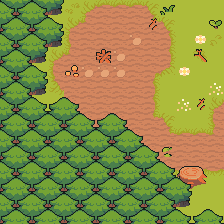
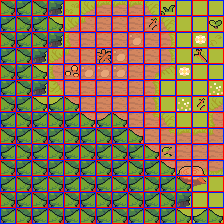
Operational case detection system

Changed region(s): [[0.0, 0.0, 1.0, 1.0]]

diff --git a/scripts/game.js b/scripts/game.js
@@ -2,6 +2,9 @@ let imageLoader = new ImageLoader()
 let gameReady = false
 let listSprites = []
 
+let mouseX
+let mouseY
+
 function load(){
     // retrieves the activated and released keys
     document.addEventListener("keydown", keyDown, false)
@@ -28,8 +31,8 @@ function startGame(){
 
     let spriteSheetBlueSamurai = imageLoader.getImage("/asset/graphics/actor/characters/blue_samurai/sprite_sheet.png")
     hero = new Sprite(spriteSheetBlueSamurai)
-    hero.x = 16*24
-    hero.y = 16*24
+    hero.x = 16*20
+    hero.y = 16*20
     setHero()
     listSprites.push(hero)
 
@@ -49,6 +52,11 @@ function update(dt){
 
     if(!gameReady){return}
     
+    
+
+    let id = getTileAt(hero.x, hero.y)
+    console.log(id)
+
     listSprites.forEach(sprite => {
         sprite.update(dt)
     })
@@ -57,19 +65,11 @@ function update(dt){
     hero.move()
 }
 
-function cooldowns(pCooldownsMax){
-    // time in seconds 
-    let lastTime = Date.now()/1000
-    
-    while(Date.now()/1000 < lastTime + pCooldownsMax){}
-
-    return true
-}
-
 function draw(pCtx){
 
     if(!gameReady){return}
-
+    
+    
     listMap.forEach(sprite => {
         sprite.draw(pCtx)
     })

diff --git a/scripts/collider.js b/scripts/collider.js
@@ -1,3 +1,6 @@
+const tileSize = 16
+const tileScale = 4
+
 const map = [
     [1,1,1,1,0,0,0,0,0,0,0,0,0,0],
     [1,1,1,1,0,0,0,0,0,0,0,0,0,0],
@@ -16,6 +19,14 @@ const map = [
 ]
 
 function getTileAt(pX, pY){
-    let column = Math.floor(pX/16) + 1
-    let line = Math.floor(pY/16) + 1
+
+    let column = Math.floor(pX/(tileSize*tileScale)) + 1
+    let line = Math.floor(pY/(tileSize*tileScale)) + 1
+
+    if((column >= 0) && (column <= map[0].length) && (line >= 0) && (line <= map.length)){
+        let idCase = map[line][column]
+        return idCase
+    }
+    
+    return "ERROR : outside the map !"
 }

diff --git a/asset/templates/index.html b/asset/templates/index.html
@@ -8,6 +8,7 @@
 </head>
 <body style="background-color: black; margin: 0;">
     <canvas id="canvas" style="background-color: gray;"></canvas>
+    <script src="../../scripts/collider.js"></script>
     <script src="../../scripts/control.js"></script>
     <script src="../../scripts/setup.js"></script>
     <script src="../../scripts/image_loader.js"></script>
